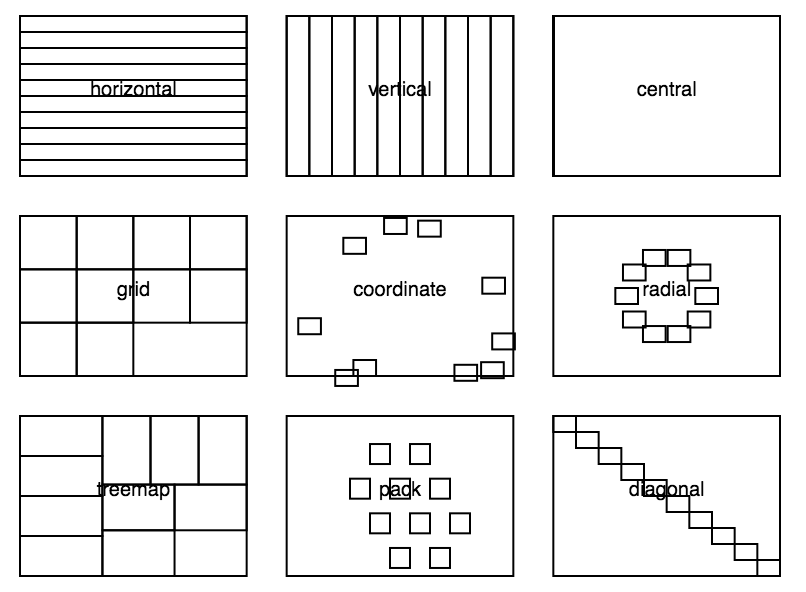
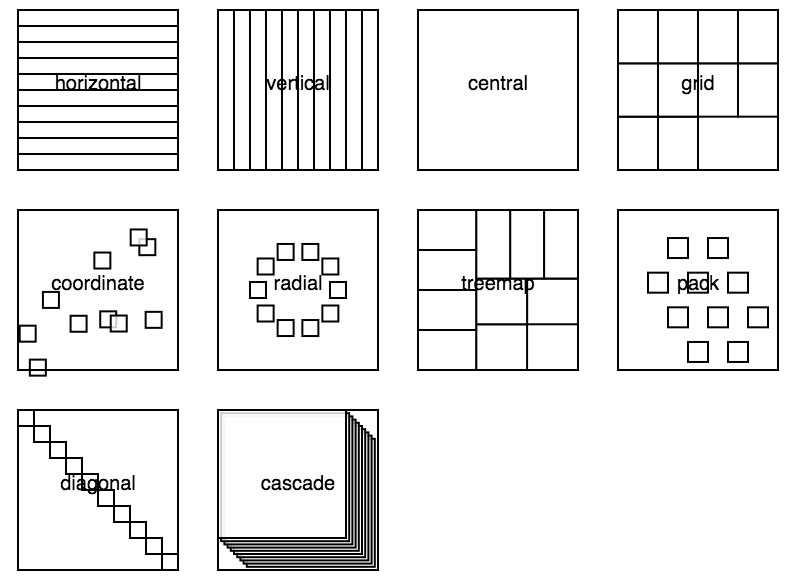
Updating doc with new layout

Changed region(s): [[0.0, 0.3402, 0.9925, 0.9897], [0.0, 0.0, 0.9925, 0.3093], [0.6316, 0.6804, 0.9925, 0.9897]]

diff --git a/README.md b/README.md
@@ -71,15 +71,16 @@ var points = svgPoints.selectAll(".point")
 
 The `mode` parameter sets the layout:
 
-* `grid` - classic grid
 * `vertical` - vertical layout
 * `horizontal` - horizontal layout
-* `diagonal` - diagonal layout
 * `central` - overlapping layout
-* `coordinates` - absolute position
+* `grid` - classic grid
+* `coordinate` - absolute position
 * `radial` - pie chart with uniform wedges
 * `treemap` - [d3.treemap()](https://github.com/d3/d3-hierarchy/blob/master/* README.md#treemap) layout
 * `pack` - [d3.pack()](https://github.com/d3/d3-hierarchy/blob/master/* README.md#pack)
+* `diagonal`  - aligned on the diagonal
+* `cascade` - like diagonal but with larger and overlapping cells 
 * `identity` - does nothing, returns same values
 
 To get the list of all available modes `gridding.modes()`
